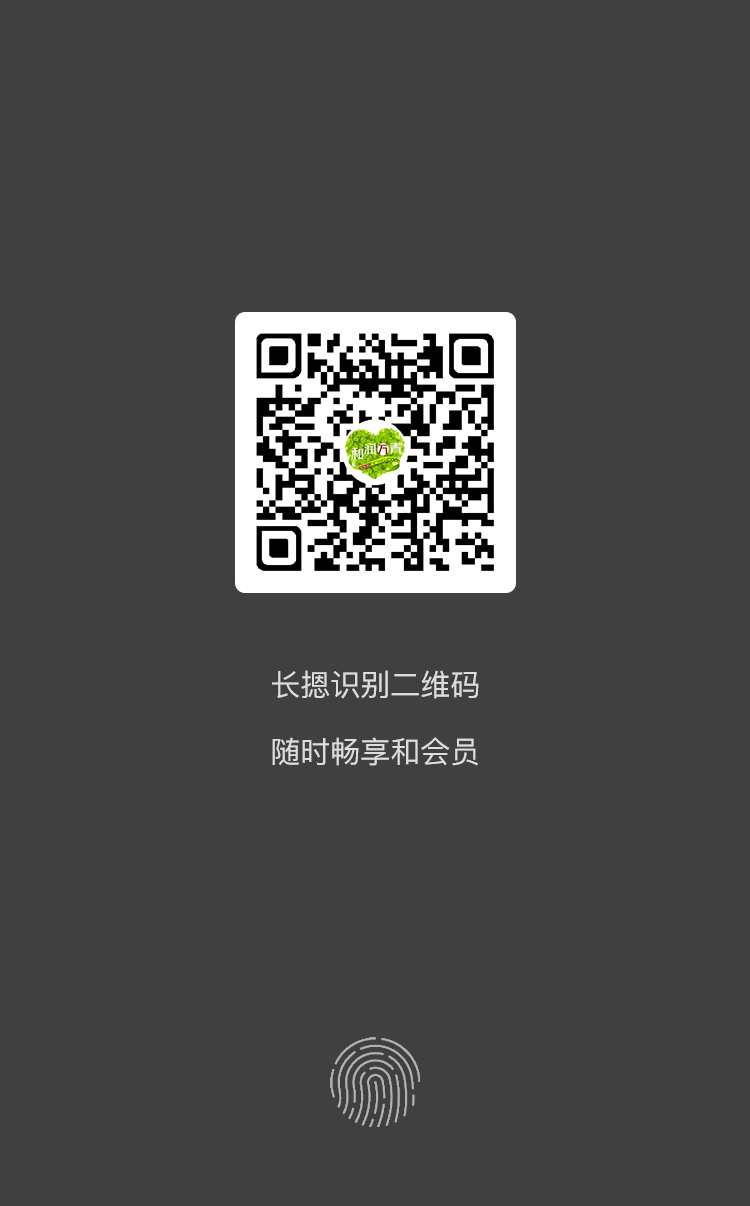
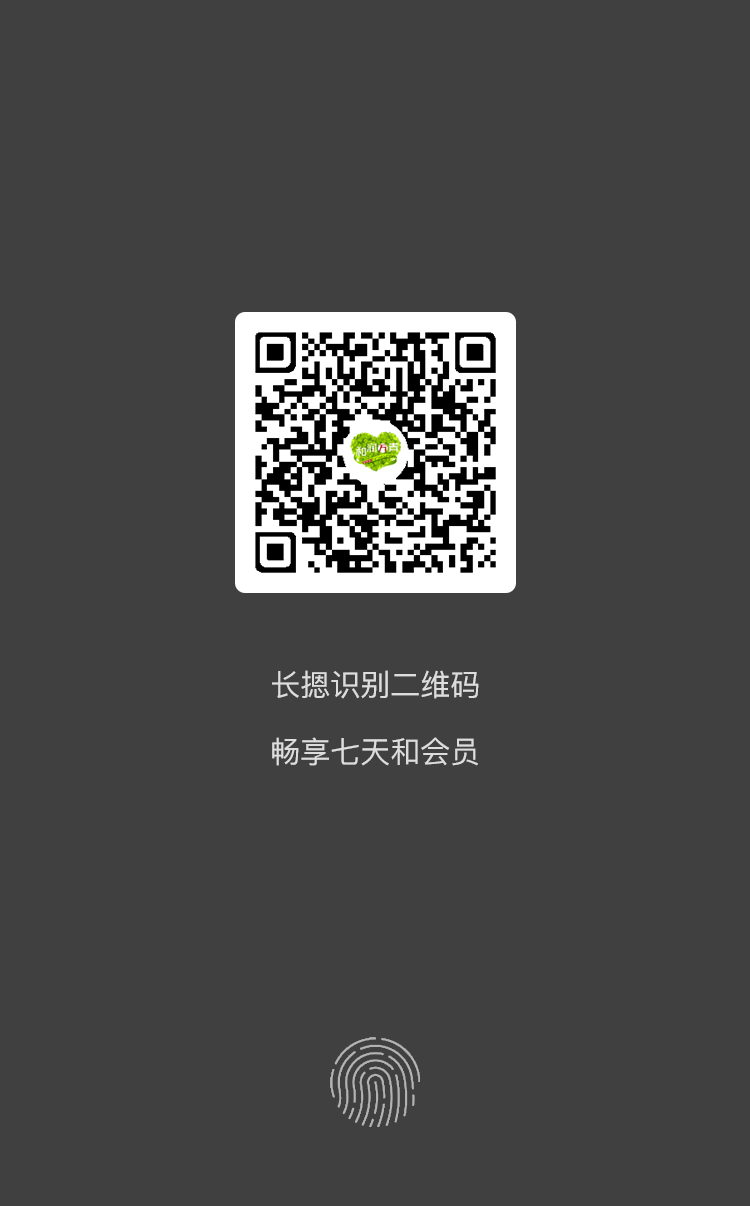
注册奖励、视频试看去注册、个人中心修改

Changed region(s): [[0.3373, 0.2761, 0.6747, 0.4909], [0.368, 0.6136, 0.5213, 0.6443]]

diff --git a/resources/views/vcourse/detail.blade.php b/resources/views/vcourse/detail.blade.php
@@ -330,28 +330,52 @@ $(document).ready(function(){
 
     var videoEnd = function(){
       if ($('#video-container').data('flg')=='free') {
-         Popup.init({
-        	popTitle:'试看结束',
-            popHtml:'<p>加入好父母学院，观看每周一期完整视频</p>',
-            popOkButton:{
-                buttonDisplay:true,
-                buttonName:"我要加入",
-                buttonfunction:function(){
-                	location.href='{{ url("article/6") }}';
-                    return false;
-                }
-            },
-            popCancelButton:{
-                buttonDisplay:true,
-                buttonName:"我不关心",
-                buttonfunction:function(){}
-            },
-            popFlash:{
-                flashSwitch:false
-            }
-        });
+    	  @if(empty(@$user_info['mobile']))
+    		  Popup.init({
+                	popTitle:'试看结束',
+                    popHtml:'<p>完成注册可获得7天会员奖励，期间可收听父母学院全部完整版课程</p>',                
+                    popOkButton:{
+                        buttonDisplay:true,
+                        buttonName:"立即注册",
+                        buttonfunction:function(){
+                        	location.href="{{ route('user.login') }}";
+                            return false;
+                        }
+                    },
+                    popCancelButton:{
+                        buttonDisplay:true,
+                        buttonName:"狠心离开",
+                        buttonfunction:function(){}
+                    },
+                    popFlash:{
+                        flashSwitch:false
+                    }
+                });
+          @else
+        	  Popup.init({
+              	popTitle:'试看结束',
+                  popHtml:'<p>加入好父母学院，观看每周一期完整视频</p>',                
+                  popOkButton:{
+                      buttonDisplay:true,
+                      buttonName:"我要加入",
+                      buttonfunction:function(){
+                      	location.href='{{ url("article/6") }}';
+                          return false;
+                      }
+                  },
+                  popCancelButton:{
+                      buttonDisplay:true,
+                      buttonName:"我不关心",
+                      buttonfunction:function(){}
+                  },
+                  popFlash:{
+                      flashSwitch:false
+                  }
+              });
+          @endif
       };
     };
+    
 	//alert('{{$vip_left_day}}');
     //已经参加课程或收费课程试看或vip
     //if(count($vcourseDetail->order)>0||$vcourseDetail->type=='2'&&@$user_info['vip_flg']=='1')

diff --git a/resources/views/user/index.blade.php b/resources/views/user/index.blade.php
@@ -38,15 +38,10 @@
                         	</div>                        	
                         	<div class="mmo_right_menu">
                         		<a href="{{route('my.courses')}}">收藏</a> 
-                        		<!--  @if($order_read_num>0)<span>{{$order_read_num}}</span>@endif</a>-->
                         		| 
                         		<a href="{{route('my.orders')}}">订单</a></div>
                         </div>                        
-                   
-                        <div class="mmo_love">
-							<a href="{{route('share.angle')}}">爱心大使&nbsp;></a>                      	
-                        </div>                     
-                        
+
                         <div class="mmo_identity">
                             <a href="{{route('article',['id'=>6])}}">
                             	<div class="mmo_identity_1">
@@ -57,9 +52,26 @@
                             		</div>
                             	</div>
                             </a>
-                        </div>                        
+                        </div>      
+                                          
                     </div>
-                    <ul class="mmo_list">
+                    
+                    <ul class="mmo_list" style="margin-top:0px;border-top: 1px solid #f6f6f6;">
+                    	 <li>
+                    	 	@if(empty(@$data['mobile']))
+                    	 	<a href="{{route('user.login')}}">                    	 	
+                    	 	@else
+                    	 	<a href="{{route('share.angle')}}">
+                    	 	@endif
+                    	 		<span style="font-size:0.5rem" >
+                    	 			立领七天会员&nbsp;<img src="/images/my/new-tip.png" style="width: 1.3rem;"/>&nbsp;
+                    	 			<span><img src="/images/public/select_right.jpg" alt=""/></span>
+                    	 		</span>
+                    	 	爱心大使
+                    	 	</a>
+                    	</li>
+                    </ul>
+                   <ul class="mmo_list">
                         <li><a href="{{route('my.notes')}}"><span><img src="/images/public/select_right.jpg"
                                                                        alt=""/></span>作业&笔记</a></li>
                         <li><a href="{{route('user.question')}}"><span><img src="/images/public/select_right.jpg"

diff --git a/app/Http/Controllers/UserController.php b/app/Http/Controllers/UserController.php
@@ -29,6 +29,7 @@ use Qiniu\Processing\PersistentFop;
 use App\Models\Question;
 use App\Models\QuestionListener;
 use App\Models\UserFavor;
+use App\Models\UserPointVip;
 use App\Models\Order;
 use Log, DB, Event;
 use Carbon\Carbon;
@@ -455,13 +456,14 @@ class UserController extends Controller
                         }
                     }
 
-
                     $userModel->save();
                     $user_info['openid'] = $userModel->openid;
                     $user_info['mobile'] = $userModel->mobile;
                     $user_info['id'] = $userModel->id;
                     $user_info['nickname'] = $userModel->nickname;
                     $request->session()->set('user_info', $user_info);
+                    
+                    $this->_register_vip_ward();
                     
                     $url = $request->input('url');
                     DB::commit();
@@ -476,6 +478,24 @@ class UserController extends Controller
         }
     }
 
+    /**
+     * 注册奖励天数
+     */
+    private function  _register_vip_ward(){
+    	$user = user_info();
+    	$days = 7;
+    	$left_days = get_new_vip_left_day($user['vip_left_day'], $days);
+    	UserPointVip::add($user['id'], $days, 5);//注册奖励
+    	User::find($user['id'])->update(['vip_left_day' => $left_days]);
+    	
+    	if($user['lover_id'] > 0){
+    		$lover = User::where("id",'=',$user['lover_id'])->first();
+    		$lover_left_days = get_new_vip_left_day($lover->vip_left_day, $days);
+    		UserPointVip::add($lover->id, $days, 4);
+    		User::find($lover->id)->update(['vip_left_day' => $lover_left_days]);
+    	}
+    }
+    
     private function _send_coupon($coupon_id, $user_id, $come_from)
     {
         if ($coupon_id && $user_id) {

diff --git a/resources/views/share/hot.blade.php b/resources/views/share/hot.blade.php
@@ -34,9 +34,18 @@ body{
             </div>
         </div>
         <div style="text-align:center">
-        	<a href="{{route('article',['id'=>6])}}">
-        		<img style="width:6.25rem;height:1.71rem;margin-top:1rem" src="/images/share/join-btn.png"/>
-        	</a>
+        	@if($user['mobile'])
+	        	<a href="{{route('article',['id'=>6])}}">
+	        		<img style="width:6.25rem;height:1.71rem;margin-top:1rem" src="/images/share/join-btn.png"/>
+	        	</a>
+        	@else
+	        	<a href="{{route('user.login')}}">
+	        		<img style="width:8.125rem;height:2.15rem;margin-top:1rem" src="/images/share/register-btn.png"/>
+	        	</a>
+	        	<p style="font-size:0.9rem;color:#999999;text-align:center;margin-top:0.4rem">
+	        		注册即可获得7天会员体验期
+	        	</p>
+        	@endif
         </div>
         <audio id="audio1" preload="auto" loop="loop" style="display: none" src="http://oflmtu502.bkt.clouddn.com/%E9%9F%B3%E9%A2%91%20%E6%95%99%E8%82%B2%E8%A7%822.mp3">
         </audio>

diff --git a/resources/views/user/login.blade.php b/resources/views/user/login.blade.php
@@ -21,7 +21,7 @@
                     <input type='hidden' name='invite_user' value="{{$invite_user}}">
                     
                     <div class="login-form" style="color: #999;font-size:0.75rem;margin:4.16rem 1.2rem 1rem 1.2rem;padding:0 0.75rem;background-color:#fff">
-               			<div class="tip" style="padding-top: 0.75rem;padding-bottom: 1.8rem;">为保障您的账号安全，请绑定手机号。</div>
+               			<div class="tip" style="padding-top: 0.75rem;padding-bottom: 1.8rem;">注册后即可获得7天和会员奖励，收听全部完整课程</div>
                			<table style="width:100%">
                				<tr style="height:2.62rem;border-bottom:1px #ddd solid">
                					<td><img src="/images/look/address_bg.png"/></td>

diff --git a/app/Http/Controllers/ShareController.php b/app/Http/Controllers/ShareController.php
@@ -26,7 +26,7 @@ class ShareController extends Controller
     	if($userinfo['vip_flg'] == 2){
     		return redirect("/vcourse");
     	}else{
-    		return view('share.hot');
+    		return view('share.hot',['user'=>$userinfo]);
     	}
     }
     

diff --git a/config/constants.php b/config/constants.php
@@ -222,7 +222,8 @@ return [
 		1=>'购买和会员',
 		2=>'会员卡',
 		3=>'被分享奖励',
-		4=>'分享奖励'
+		4=>'邀请奖励',
+		5=>'注册奖励'
 	],
 		
     //收益类型
